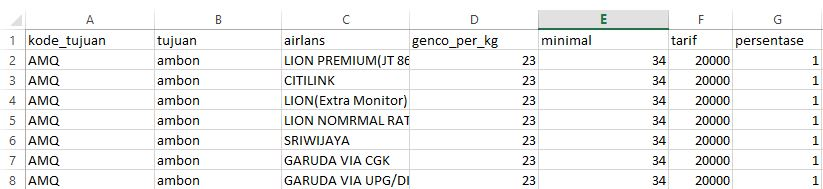
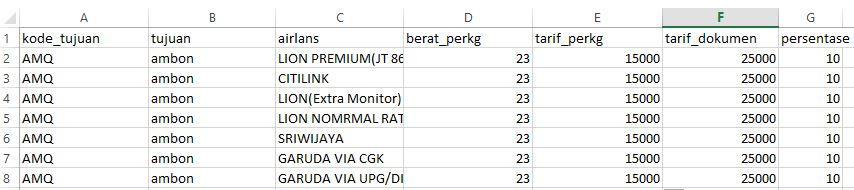
Rapate'x calm

Changed region(s): [[0.0, 0.0265, 1.0, 1.0]]

diff --git a/resources/views/trfudara/edit.blade.php b/resources/views/trfudara/edit.blade.php
@@ -67,26 +67,20 @@
                                          </div>
                                         @endif
 						</div>
-					</div>
+					</div>					
 					<div class="form-group row">
-						<label class="col-sm-2 form-control-label semibold">Genco per Kg</label>
+						<label class="col-sm-2 form-control-label semibold">Berat PerKg</label>
 						<div class="col-sm-10">
-							<p class="form-control-static"><input type="text" class="form-control" id="inputPassword" required onkeypress="return isNumberKey(event)" placeholder="Text" name="gencoKG" value="{{$row->gencoKG}}"></p>
-						@if($errors->has('gencoKG'))
+							<div class="input-group">
+							<input type="text" class="form-control" id="inputPassword" required onkeypress="return isNumberKey(event)" placeholder="Text" name="ber_perkg" value="{{$row->perkg}}">
+
+								<div class="input-group-addon">
+									Kg
+								</div>
+							</div>
+						@if($errors->has('ber_perkg'))
                                         <div class="alert alert-danger">
-                                        {{ $errors->first('gencoKG')}}
-                                         </div>
-                                        @endif
-						</div>
-					</div>
-					
-					<div class="form-group row">
-						<label class="col-sm-2 form-control-label semibold">Minimal</label>
-						<div class="col-sm-10">
-							<p class="form-control-static"><input type="text" class="form-control" id="inputPassword" required onkeypress="return isNumberKey(event)" placeholder="Text" name="minimal" value="{{$row->minimal}}"></p>
-						@if($errors->has('minimal'))
-                                        <div class="alert alert-danger">
-                                        {{ $errors->first('minimal')}}
+                                        {{ $errors->first('ber_perkg')}}
                                          </div>
                                         @endif
 						</div>
@@ -96,20 +90,35 @@
 					@foreach($udaracargo as $ro)
 					<input type="hidden" name="id_cargo" value="{{$ro->id}}">
 					<div class="form-group row">
-						<label class="col-sm-2 form-control-label semibold">Tarif</label>
+						<label class="col-sm-2 form-control-label semibold">Tarif PerKg</label>
 						<div class="col-sm-10">
 							<div class="input-group">
-
 							<div class="input-group-addon">
 									Rp.
 								</div>
-
-							<input type="text" class="form-control" id="inputPassword"  name="tarif" onkeypress="return isNumberKey(event)" value="{{$ro->tarif}}">
+							<input type="text" class="form-control" id="inputPassword"  name="tarif_perkg" onkeypress="return isNumberKey(event)" value="{{$ro->tarif_perkg}}">
 							
 							</div>
-							@if($errors->has('tarif'))
+							@if($errors->has('tarif_perkg'))
                                        <div class="alert alert-danger">
-                                        {{ $errors->first('tarif')}}
+                                        {{ $errors->first('tarif_perkg')}}
+                                         </div>
+                                       @endif
+						</div>
+					</div>
+					<div class="form-group row">
+						<label class="col-sm-2 form-control-label semibold">Tarif Dokumen</label>
+						<div class="col-sm-10">
+							<div class="input-group">
+							<div class="input-group-addon">
+									Rp.
+								</div>
+							<input type="text" class="form-control" id="inputPassword"  name="tarif_dokumen" onkeypress="return isNumberKey(event)" value="{{$ro->tarif_dokumen}}">
+							
+							</div>
+							@if($errors->has('tarif_dokumen'))
+                                       <div class="alert alert-danger">
+                                        {{ $errors->first('tarif_dokumen')}}
                                          </div>
                                        @endif
 						</div>

diff --git a/resources/views/trfudara/create.blade.php b/resources/views/trfudara/create.blade.php
@@ -71,47 +71,52 @@
                                        @endif
 						</div>
 					</div>
-
 					<div class="form-group row">
-						<label class="col-sm-2 form-control-label semibold">genco KG</label>
+						<label class="col-sm-2 form-control-label semibold">Berat PerKg</label>
 						<div class="col-sm-10">
 							<div class="input-group">
-								<input type="text" class="form-control" id="inputPassword" name="gencoKG" required onkeypress="return isNumberKey(event)" placeholder="Misal : 23 kg">
+								<input type="text" class="form-control" id="inputPassword" name="ber_perkg" required onkeypress="return isNumberKey(event)" placeholder="Misal : 23 kg">
 								<div class="input-group-addon">
 									Kg
 								</div>
 							</div>
-							@if($errors->has('gencoKG'))
+							@if($errors->has('ber_perkg'))
                                        <div class="alert alert-danger">
-                                        {{ $errors->first('gencoKG ')}}
+                                        {{ $errors->first('ber_perkg')}}
                                          </div>
                                        @endif
 						</div>
 					</div>
 					<div class="form-group row">
-						<label class="col-sm-2 form-control-label semibold">Minimal</label>
-						<div class="col-sm-10">
-							<p class="form-control-static"><input type="text" class="form-control" id="inputPassword" name="minimal" required onkeypress="return isNumberKey(event)" placeholder="Misal : 28"></p>
-							@if($errors->has('minimal'))
-                                       <div class="alert alert-danger">
-                                        {{ $errors->first('minimal')}}
-                                         </div>
-                                       @endif
-						</div>
-					</div>
-					<div class="form-group row">
-						<label class="col-sm-2 form-control-label semibold">Tarif</label>
+						<label class="col-sm-2 form-control-label semibold">Tarif PerKG</label>
 						<div class="col-sm-10">
 								<div class="input-group">
 								<div class="input-group-addon">
 									Rp.
 								</div>
-								<input type="text" class="form-control" id="inputPassword" name="tarif" required onkeypress="return isNumberKey(event)" placeholder="Misal : Rp 30000">
+								<input type="text" class="form-control" id="inputPassword" name="tarif_perkg" required onkeypress="return isNumberKey(event)" placeholder="Misal : Rp 30000">
 								
 							</div>
-							@if($errors->has('tarif'))
+							@if($errors->has('tarif_perkg'))
                                        <div class="alert alert-danger">
-                                        {{ $errors->first('tarif')}}
+                                        {{ $errors->first('tarif_perkg')}}
+                                         </div>
+                                       @endif
+						</div>
+					</div>
+					<div class="form-group row">
+						<label class="col-sm-2 form-control-label semibold">Tarif Dokumen</label>
+						<div class="col-sm-10">
+								<div class="input-group">
+								<div class="input-group-addon">
+									Rp.
+								</div>
+								<input type="text" class="form-control" id="inputPassword" name="tarif_dokumen" required onkeypress="return isNumberKey(event)" placeholder="Misal : Rp 30000">
+								
+							</div>
+							@if($errors->has('tarif_dokumen'))
+                                       <div class="alert alert-danger">
+                                        {{ $errors->first('tarif_dokumen')}}
                                          </div>
                                        @endif
 						</div>

diff --git a/app/Http/Controllers/Trfudara/Trfudaracontroller.php b/app/Http/Controllers/Trfudara/Trfudaracontroller.php
@@ -86,9 +86,9 @@ public function caridata(Request $request)
             'kode' => 'required|min:3',
             'tujuan' => 'required|min:3',
             'airlans' => 'required|min:3',
-            'gencoKG' => 'required|min:1',
-            'minimal' => 'required|min:1',
-            'tarif' => 'required|min:1',
+            'ber_perkg' => 'required|min:1',
+            'tarif_perkg' => 'required|min:1',
+            'tarif_dokumen' => 'required|min:1',
             'persentase' => 'required|min:1'
                 ];
          $customMessages = [
@@ -104,13 +104,13 @@ if($dtlam > 0){
             'kode' => $request->kode,
             'tujuan' => $request->tujuan,
             'airlans' => $request->airlans,
-            'gencoKG' => $request->gencoKG,
-            'minimal' => $request->minimal
+            'perkg' => $request->ber_perkg
 ]);
         DB::table('udara_kargo')
         ->insert([
             'kode_udara' => $request->kode,
-            'tarif' => $request->tarif,
+            'tarif_perkg' => $request->tarif_perkg,
+            'tarif_dokumen' => $request->tarif_dokumen,
             'persentase' => $request->persentase
 ]);
 return redirect('trfudara')->with('status','tambah Data Sukses');
@@ -157,12 +157,14 @@ return redirect('trfudara')->with('status','tambah Data Sukses');
     public function update(Request $request, $id)
     {
         $rules = [
-            'kode' => 'required|min:1',
-            'tujuan' => 'required|min:1',
-            'airlans' => 'required|min:1',
-            'gencoKG' => 'required|min:1',
-            'minimal' => 'required|min:1'
-            ];
+            'kode' => 'required|min:3',
+            'tujuan' => 'required|min:3',
+            'airlans' => 'required|min:3',
+            'ber_perkg' => 'required|min:1',
+            'tarif_perkg' => 'required|min:1',
+            'tarif_dokumen' => 'required|min:1',
+            'persentase' => 'required|min:1'
+                ];
         $customMessages = [
         'required'  => 'Maaf, :attribute harus di isi',
         'min'       => 'Maaf, data yang anda masukan terlalu sedikit'
@@ -173,14 +175,14 @@ return redirect('trfudara')->with('status','tambah Data Sukses');
             'kode' => $request->kode,
             'tujuan' => $request->tujuan,
             'airlans' => $request->airlans,
-            'gencoKG' => $request->gencoKG,
-            'minimal' => $request->minimal
+            'perkg' => $request->ber_perkg
             ]);
 
         $kode = $request->kode;
 
         DB::table('udara_kargo')->where('kode_udara',$kode)->update([
-            'tarif' => $request->tarif,
+            'tarif_perkg' => $request->tarif_perkg,
+            'tarif_dokumen' => $request->tarif_dokumen,
             'persentase' => $request->persentase
 
         ]);

diff --git a/resources/views/trfudara/importexcel.blade.php b/resources/views/trfudara/importexcel.blade.php
@@ -65,7 +65,7 @@
                                                <img src="{{url('img/import_export/001.JPG')}}"  width="100%" height="100%">
                                                <p>
                                                <li>
-                                                   Buka file <b>"template tarif Udara.xlsx"</b> kemudian isi data seperti gambar dibawah perhatikan pada bagian <b>genco_per_kg,minimal,tarif dan persentase</b> hanyan diisi dengan angka saja.
+                                                   Buka file <b>"template tarif Udara.xlsx"</b> kemudian isi data seperti gambar dibawah perhatikan pada bagian <b>berat_perkg,	tarif_perkg, tarif_dokumen dan persentase</b> hanyan diisi dengan angka saja.
                                                </li><br>
                                                <img src="{{url('img/import_export/udara.JPG')}}">
                                                <p>

diff --git a/app/Exports/TrfudaraExport.php b/app/Exports/TrfudaraExport.php
@@ -16,12 +16,12 @@ class TrfudaraExport implements FromCollection, WithHeadings{
         // return DB::table('udara_kargo')->select('tarif','persentase')->where('kode_udara',$kode)->get();;
 return  DB::table('tarif_udara')
 ->join('udara_kargo', 'udara_kargo.kode_udara', '=', 'tarif_udara.kode')
-->select('udara_kargo.tarif','udara_kargo.persentase','tarif_udara.kode','tarif_udara.tujuan','tarif_udara.airlans','tarif_udara.gencoKG','tarif_udara.minimal')->get();;
+->select('udara_kargo.tarif_perkg','udara_kargo.tarif_dokumen','udara_kargo.persentase','tarif_udara.kode','tarif_udara.tujuan','tarif_udara.airlans','tarif_udara.perkg')->get();;
     }
     public function headings(): array
     {
         return [
-            'kode','tujuan','airlans','genco_per_kg','minimal','tarif','persentase',
+            'kode','tujuan','airlans','berat_perkg','tarif_perkg','tarif_dokumen','persentase',
         ];
 }
 }

diff --git a/app/Imports/TrfudaraImport.php b/app/Imports/TrfudaraImport.php
@@ -18,13 +18,13 @@ class TrfudaraImport implements ToCollection, WithHeadingRow{
                     'kode'=>$row['kode_tujuan'],
                     'tujuan'=>$row['tujuan'],
                     'airlans'=>$row['airlans'],
-                    'gencoKG'=>$row['genco_per_kg'],
-                    'minimal'=>$row['minimal'],
+                    'perkg'=>$row['berat_perkg'],
                     
                     ]);
     	 DB::table('udara_kargo')->insert([
                     'kode_udara'=>$row['kode_tujuan'],
-                    'tarif'=>$row['tarif'],
+                    'tarif_perkg'=>$row['tarif_perkg'],
+                    'tarif_dokumen'=>$row['tarif_dokumen'],
                     'persentase'=>$row['persentase']
                     ]);
     	}
